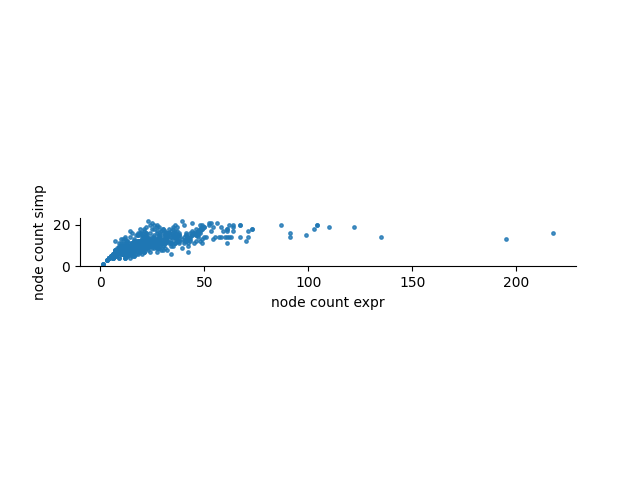
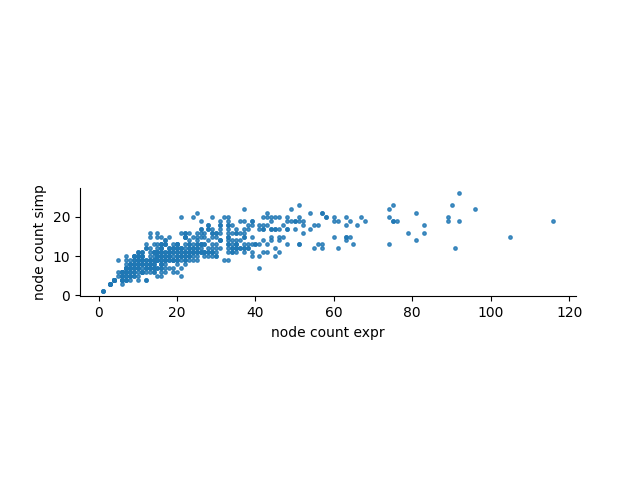
More dataset analysis graphs

diff --git a/src/data/dataset_analysis/dataset_analysis.py b/src/data/dataset_analysis/dataset_analysis.py
@@ -1,6 +1,7 @@
 import pandas as pd
 from sympy import sympify
 from matplotlib import pyplot as plt
+import os
 
 from definitions import ROOT_DIR
 
@@ -14,6 +15,8 @@ df[df.columns[:3]] = df[df.columns[:3]].map(sympify)
 
 # @title difficulty
 
+output_dir = os.path.join(ROOT_DIR, "src/data/dataset_analysis")
+os.makedirs(output_dir, exist_ok=True)
 
 df["difficulty"].plot(kind="hist", bins=20, title="difficulty")
 plt.gca().spines[
@@ -22,7 +25,8 @@ plt.gca().spines[
         "right",
     ]
 ].set_visible(False)
-plt.savefig("difficulty.png")
+plt.savefig(os.path.join(output_dir, "difficulty.png"))
+plt.close()
 
 # @title node count expr vs node count simp
 
@@ -34,7 +38,8 @@ plt.gca().spines[
     ]
 ].set_visible(False)
 plt.gca().set_aspect("equal")
-plt.savefig("node_count_comp_vs_simp.png")
+plt.savefig(os.path.join(output_dir, "node_count_comp_vs_simp.png"))
+plt.close()
 
 # @title node count simp vs node count simplified
 
@@ -46,4 +51,37 @@ plt.gca().spines[
     ]
 ].set_visible(False)
 plt.gca().set_aspect("equal")
-plt.savefig("node_count_simp_vs_simplified.png")
+plt.savefig(os.path.join(output_dir, "node_count_simp_vs_simplified.png"))
+plt.close()
+
+# @title node count expr vs node count simplified
+
+df.plot(kind="scatter", x="node count expr", y="node count simplified", s=6, alpha=0.8)
+plt.gca().spines[
+    [
+        "top",
+        "right",
+    ]
+].set_visible(False)
+plt.gca().set_aspect("equal")
+plt.savefig(os.path.join(output_dir, "node_count_expr_vs_simplified.png"))
+plt.close()
+
+
+# Compute average and std for node count difference, simplified vs expr
+node_count_diff = df['node count expr'] - df['node count simplified']
+avg_node_count_diff = node_count_diff.mean()
+std_node_count_diff = node_count_diff.std()
+
+print(f"Average node count difference (expr - simplified): {avg_node_count_diff:.2f}")
+print(f"Standard deviation of node count difference: {std_node_count_diff:.2f}")
+
+# Visualize the distribution of node count difference
+plt.figure(figsize=(10, 6))
+plt.hist(node_count_diff, bins=30, edgecolor='black')
+plt.title('Distribution of Node Count Difference (expr - simplified)')
+plt.xlabel('Node Count Difference')
+plt.ylabel('Frequency')
+plt.gca().spines[['top', 'right']].set_visible(False)
+plt.savefig(os.path.join(output_dir, "node_count_diff_distribution.png"))
+plt.close()

diff --git a/train/train_data_analysis.py b/train/train_data_analysis.py
@@ -10,7 +10,7 @@ json_files = [f for f in os.listdir(json_dir) if f.startswith('training_data_') 
 latest_json = max(json_files, key=lambda x: datetime.strptime(x, 'training_data_%Y%m%d_%H%M%S.json'))
 
 # Load the JSON data
-with open(os.path.join(json_dir, latest_json), 'r') as f:
+with open(os.path.join(json_dir, "/Users/talsheaffer/My Drive/code/ml/sympy_simp/symple/train/training_data/training_data_20240916_180411.json"), 'r') as f:
     data = json.load(f)
 
 # Extract necessary data
